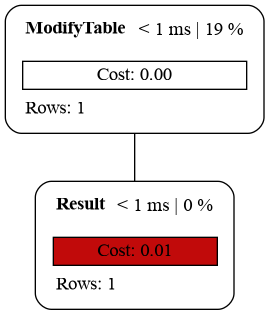
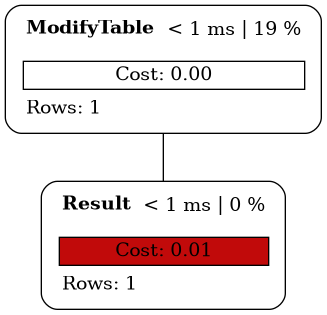
Diplay CTE subgraph

diff --git a/src/graph.rs b/src/graph.rs
@@ -2,9 +2,11 @@ pub(crate) fn dot(explain: &crate::Explain) -> String {
     Graph::from(explain).render()
 }
 
+type Su<'a> = String;
 type Nd = usize;
 type Ed<'a> = &'a (usize, usize);
 
+#[derive(Debug, Default)]
 struct Graph {
     nodes: Vec<Node>,
     edges: Vec<(usize, usize)>,
@@ -15,13 +17,7 @@ struct Graph {
 
 impl Graph {
     fn new() -> Self {
-        Self {
-            nodes: Vec::new(),
-            edges: Vec::new(),
-            current_id: 0,
-            max_cost: 0.,
-            execution_time: None,
-        }
+        Self::default()
     }
 
     fn from(explain: &crate::Explain) -> Self {
@@ -36,29 +32,33 @@ impl Graph {
         graph
     }
 
-    fn plan(&mut self, explain: &crate::Explain, root_id: Option<usize>, plan: &crate::Plan) {
+    fn plan(&mut self, explain: &crate::Explain, root: Option<&Node>, plan: &crate::Plan) {
         let id = self.current_id;
         self.current_id += 1;
 
-        let node = Node::from(plan);
+        let mut node = Node::from(id, plan);
+        if node.subplan.is_none() {
+            node.subplan = root.map(|x| x.subplan.clone()).flatten();
+        }
+
         if node.cost > self.max_cost {
             self.max_cost = node.cost;
         }
-        self.nodes.push(node);
+        self.nodes.push(node.clone());
 
-        if let Some(root_id) = root_id {
-            self.edges.push((root_id, id));
+        if let Some(root) = root {
+            self.edges.push((root.id, id));
         }
 
         for child in &plan.plans {
-            self.plan(explain, Some(id), child);
+            self.plan(explain, Some(&node), child);
         }
     }
 
     fn render(&self) -> String {
         let mut output = Vec::new();
 
-        dot::render(self, &mut output).unwrap();
+        dot2::render(self, &mut output).unwrap();
 
         std::str::from_utf8(&output).unwrap().to_string()
     }
@@ -134,7 +134,9 @@ impl Graph {
     }
 }
 
+#[derive(Clone, Debug)]
 struct Node {
+    id: usize,
     cost: f32,
     executed: bool,
     info: String,
@@ -142,11 +144,13 @@ struct Node {
     rows: u32,
     time: Option<f32>,
     ty: String,
+    subplan: Option<String>,
 }
 
 impl Node {
-    fn from(plan: &crate::Plan) -> Self {
+    fn from(id: usize, plan: &crate::Plan) -> Self {
         Self {
+            id,
             cost: Self::cost(plan),
             executed: plan.actual_loops != Some(0),
             info: Self::info(plan),
@@ -154,6 +158,7 @@ impl Node {
             rows: plan.rows,
             time: Self::time(plan),
             ty: plan.node.to_string(),
+            subplan: plan.subplan.clone(),
         }
     }
 
@@ -219,16 +224,38 @@ impl Node {
     }
 }
 
-impl<'a> dot::Labeller<'a, Nd, Ed<'a>> for Graph {
-    fn graph_id(&'a self) -> dot::Id<'a> {
-        dot::Id::new("explain").unwrap()
+impl<'a> dot2::Labeller<'a> for Graph {
+    type Node = Nd;
+    type Edge = Ed<'a>;
+    type Subgraph = Su<'a>;
+
+    fn graph_id(&'a self) -> dot2::Result<dot2::Id<'a>> {
+        dot2::Id::new("explain")
     }
 
-    fn node_id(&'a self, n: &Nd) -> dot::Id<'a> {
-        dot::Id::new(format!("node{}", n)).unwrap()
+    fn subgraph_id(&'a self, s: &Su<'a>) -> Option<dot2::Id<'a>> {
+        dot2::Id::new(format!("cluster_{}", s.trim_start_matches("CTE "))).ok()
     }
 
-    fn node_label<'b>(&'b self, n: &Nd) -> dot::LabelText<'b> {
+    fn subgraph_label(&'a self, s: &Su<'a>) -> dot2::label::Text<'a> {
+        let label = format!("<b>{}</b>", s);
+
+        dot2::label::Text::HtmlStr(label.into())
+    }
+
+    fn subgraph_style(&'a self, _: &Su<'a>) -> dot2::Style {
+        dot2::Style::Filled
+    }
+
+    fn subgraph_color(&'a self, _: &Su<'a>) -> Option<dot2::label::Text<'a>> {
+        Some(dot2::label::Text::LabelStr("lightgrey".into()))
+    }
+
+    fn node_id(&'a self, n: &Nd) -> dot2::Result<dot2::Id<'a>> {
+        dot2::Id::new(format!("node{}", n))
+    }
+
+    fn node_label<'b>(&'b self, n: &Nd) -> dot2::Result<dot2::label::Text<'b>> {
         let node = self.node(*n).unwrap();
         let percent = node.cost / self.max_cost;
         let color = Self::color(percent);
@@ -286,10 +313,10 @@ impl<'a> dot::Labeller<'a, Nd, Ed<'a>> for Graph {
         ));
         label.push_str("</table>");
 
-        dot::LabelText::HtmlStr(label.into())
+        Ok(dot2::label::Text::HtmlStr(label.into()))
     }
 
-    fn node_shape(&'a self, n: &Nd) -> Option<dot::LabelText<'a>> {
+    fn node_shape(&'a self, n: &Nd) -> Option<dot2::label::Text<'a>> {
         let node = match self.node(*n) {
             Some(node) => node,
             None => return None,
@@ -297,14 +324,14 @@ impl<'a> dot::Labeller<'a, Nd, Ed<'a>> for Graph {
 
         let shape = if node.n_workers > 0 { "folder" } else { "box" };
 
-        Some(dot::LabelText::LabelStr(shape.into()))
+        Some(dot2::label::Text::LabelStr(shape.into()))
     }
 
-    fn node_style(&'a self, _: &Nd) -> dot::Style {
-        dot::Style::Rounded
+    fn node_style(&'a self, _: &Nd) -> dot2::Style {
+        dot2::Style::Rounded
     }
 
-    fn node_color(&'a self, n: &Nd) -> Option<dot::LabelText<'a>> {
+    fn node_color(&'a self, n: &Nd) -> Option<dot2::label::Text<'a>> {
         let node = match self.node(*n) {
             Some(node) => node,
             None => return None,
@@ -313,21 +340,46 @@ impl<'a> dot::Labeller<'a, Nd, Ed<'a>> for Graph {
         if node.executed {
             None
         } else {
-            Some(dot::LabelText::LabelStr("gray".into()))
+            Some(dot2::label::Text::LabelStr("gray".into()))
         }
     }
 
-    fn kind(&self) -> dot::Kind {
-        dot::Kind::Graph
+    fn kind(&self) -> dot2::Kind {
+        dot2::Kind::Graph
     }
 }
 
-impl<'a> dot::GraphWalk<'a, Nd, Ed<'a>> for Graph {
-    fn nodes(&self) -> dot::Nodes<'a, Nd> {
+impl<'a> dot2::GraphWalk<'a> for Graph {
+    type Node = Nd;
+    type Edge = Ed<'a>;
+    type Subgraph = Su<'a>;
+
+    fn subgraphs(&'a self) -> dot2::Subgraphs<'a, Su<'a>> {
+        let mut s: Vec<String> = self
+            .nodes
+            .iter()
+            .filter_map(|n| n.subplan.clone())
+            .collect();
+
+        s.dedup();
+
+        s.into()
+    }
+
+    fn subgraph_nodes(&'a self, s: &Su<'a>) -> dot2::Nodes<'a, Nd> {
+        self.nodes
+            .iter()
+            .enumerate()
+            .filter(|(_, n)| n.subplan == Some(s.to_string()))
+            .map(|(k, _)| k)
+            .collect()
+    }
+
+    fn nodes(&self) -> dot2::Nodes<'a, Nd> {
         (0..self.nodes.len()).collect()
     }
 
-    fn edges(&'a self) -> dot::Edges<'a, Ed<'a>> {
+    fn edges(&'a self) -> dot2::Edges<'a, Ed<'a>> {
         self.edges.iter().collect()
     }
 

diff --git a/src/explain.rs b/src/explain.rs
@@ -36,6 +36,8 @@ pub(crate) struct Plan {
     pub plans: Vec<Plan>,
     #[serde(rename = "Startup Cost")]
     pub startup_cost: f32,
+    #[serde(rename = "Subplan Name")]
+    pub subplan: Option<String>,
     #[serde(rename = "Total Cost")]
     pub total_cost: f32,
     #[serde(rename = "Workers", default)]
@@ -61,7 +63,10 @@ pub(crate) enum Node {
     BitmapHeapScan {},
     BitmapOr {},
     #[serde(rename = "CTE Scan")]
-    CteScan {},
+    CteScan {
+        #[serde(rename = "CTE Name")]
+        name: String,
+    },
     CustomScan {},
     #[serde(rename = "Foreign Scan")]
     ForeignScan {},
